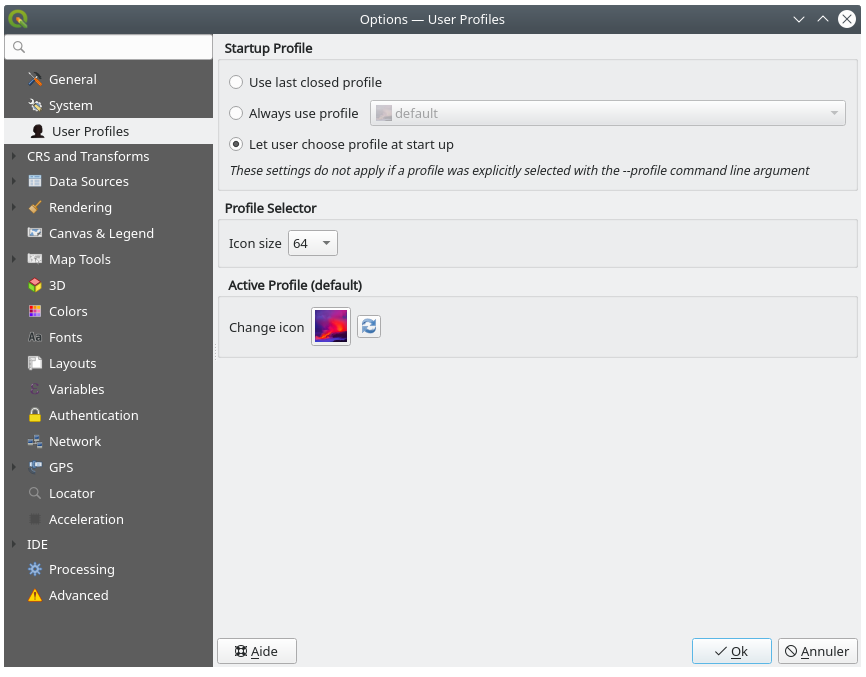
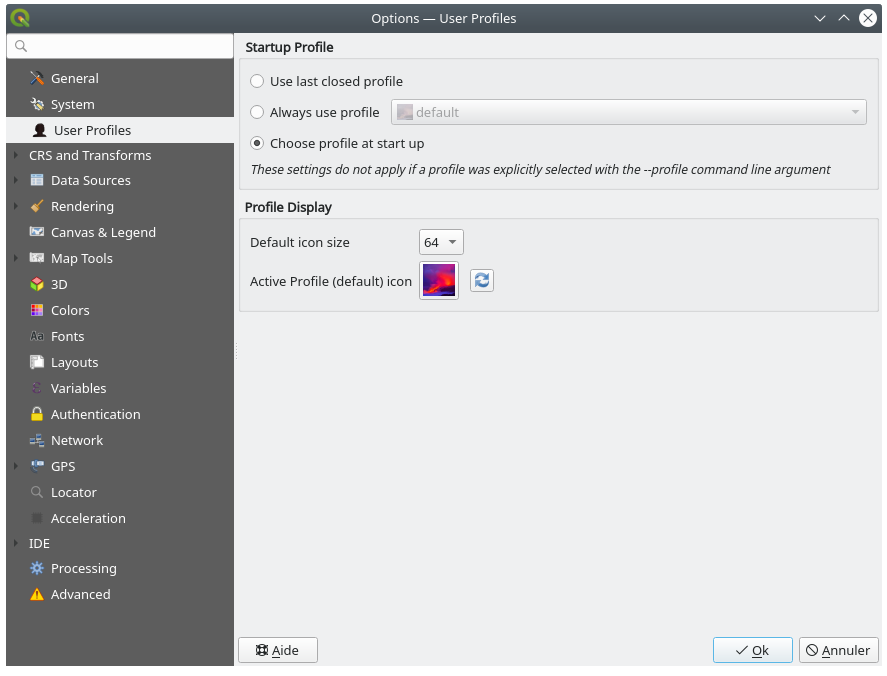
Tweaks of the settings display

diff --git a/docs/user_manual/introduction/qgis_configuration.rst b/docs/user_manual/introduction/qgis_configuration.rst
@@ -1520,18 +1520,19 @@ This, among other settings, can be customized in :menuselection:`Settings -->`
 
   * :guilabel:`Use last closed profile`
   * a specific user profile to select from :guilabel:`Always use profile` drop-down menu
-  * :guilabel:`Let user choose profile at start up`:
+  * :guilabel:`Choose profile at start up`:
     Opens the :guilabel:`User Profile Selector` dialog listing available user profiles.
     Double-click an entry or select a profile and press :guilabel:`OK` to use that user profile
     for the starting session.
     It is also possible to |symbologyAdd| :guilabel:`Add new profile` to the list:
     a profile is created from scratch and automatically run with the opening session.
 
-* :guilabel:`Profile selector`: configures size of icons to use when selecting a profile
-  from the :guilabel:`User Profile Selector` dialog.
-* :guilabel:`Active profile`: lets you configure a specific icon to display next to the current profile
-  in the :menuselection:`Settings --> User profiles` menu or the :guilabel:`User Profile Selector` dialog.
-  Press |refresh| :sup:`Reset profile icon` to remove custom modifications.
+* Under :guilabel:`Profile display`, you can set:
+
+  * The size of icons to use when selecting a profile from the :guilabel:`User Profile Selector` dialog.
+  * A specific icon to display next to the current profile in the :menuselection:`Settings --> User profiles` menu
+    or the :guilabel:`User Profile Selector` dialog.
+    Press |refresh| :sup:`Reset profile icon` to remove custom modifications.
 
 
 .. index:: Project properties
